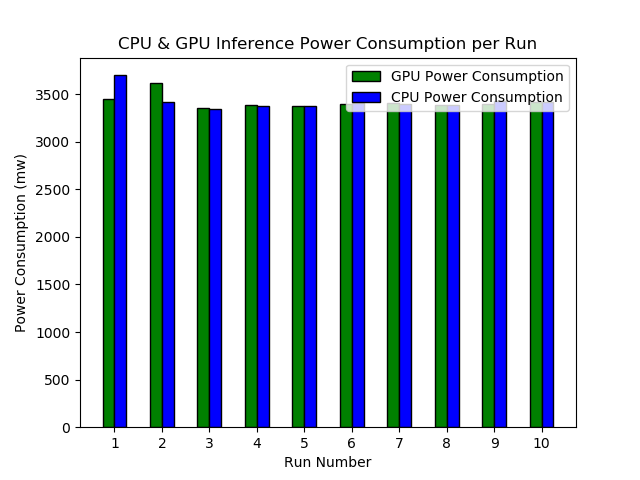
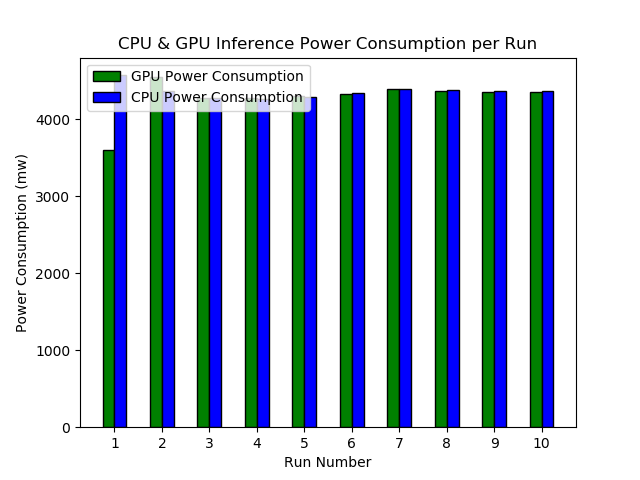
Changed pretrained model to larger ResNet101

diff --git a/andy/customInference/ImageClassification.py b/andy/customInference/ImageClassification.py
@@ -16,7 +16,7 @@ tf.enable_eager_execution()
 #TODO: Play with cpu v gpu distribution
 #TODO Play around with different datasets and sizes
 
-model = tf.keras.applications.MobileNetV2(weights='imagenet')
+model = tf.keras.applications.ResNet101(weights='imagenet')
 model.summary()
 
 def preprocess_image(img_path):
@@ -36,7 +36,7 @@ def predict_image(img_path, top_k = 5):
 def warmupLoop(processor):
     with processor:
         img1_path = 'Library.png'
-        predict_image(img1_path, top_k = 7)
+        predict_image(img1_path, top_k = 5)
 
 def inference(processor):
     global elapsedTime
@@ -49,10 +49,10 @@ def inference(processor):
         with processor:
             start = timer()
             img1_path = 'Library.png'
-            predict_image(img1_path, top_k = 7)
+            predict_image(img1_path, top_k = 5)
             img2_path = 'cat.png'
             print('\n')
-            predict_image(img2_path, top_k = 7)
+            predict_image(img2_path, top_k = 5)
             end = timer()
 
     elapsedTime = round((end - start), 5)
